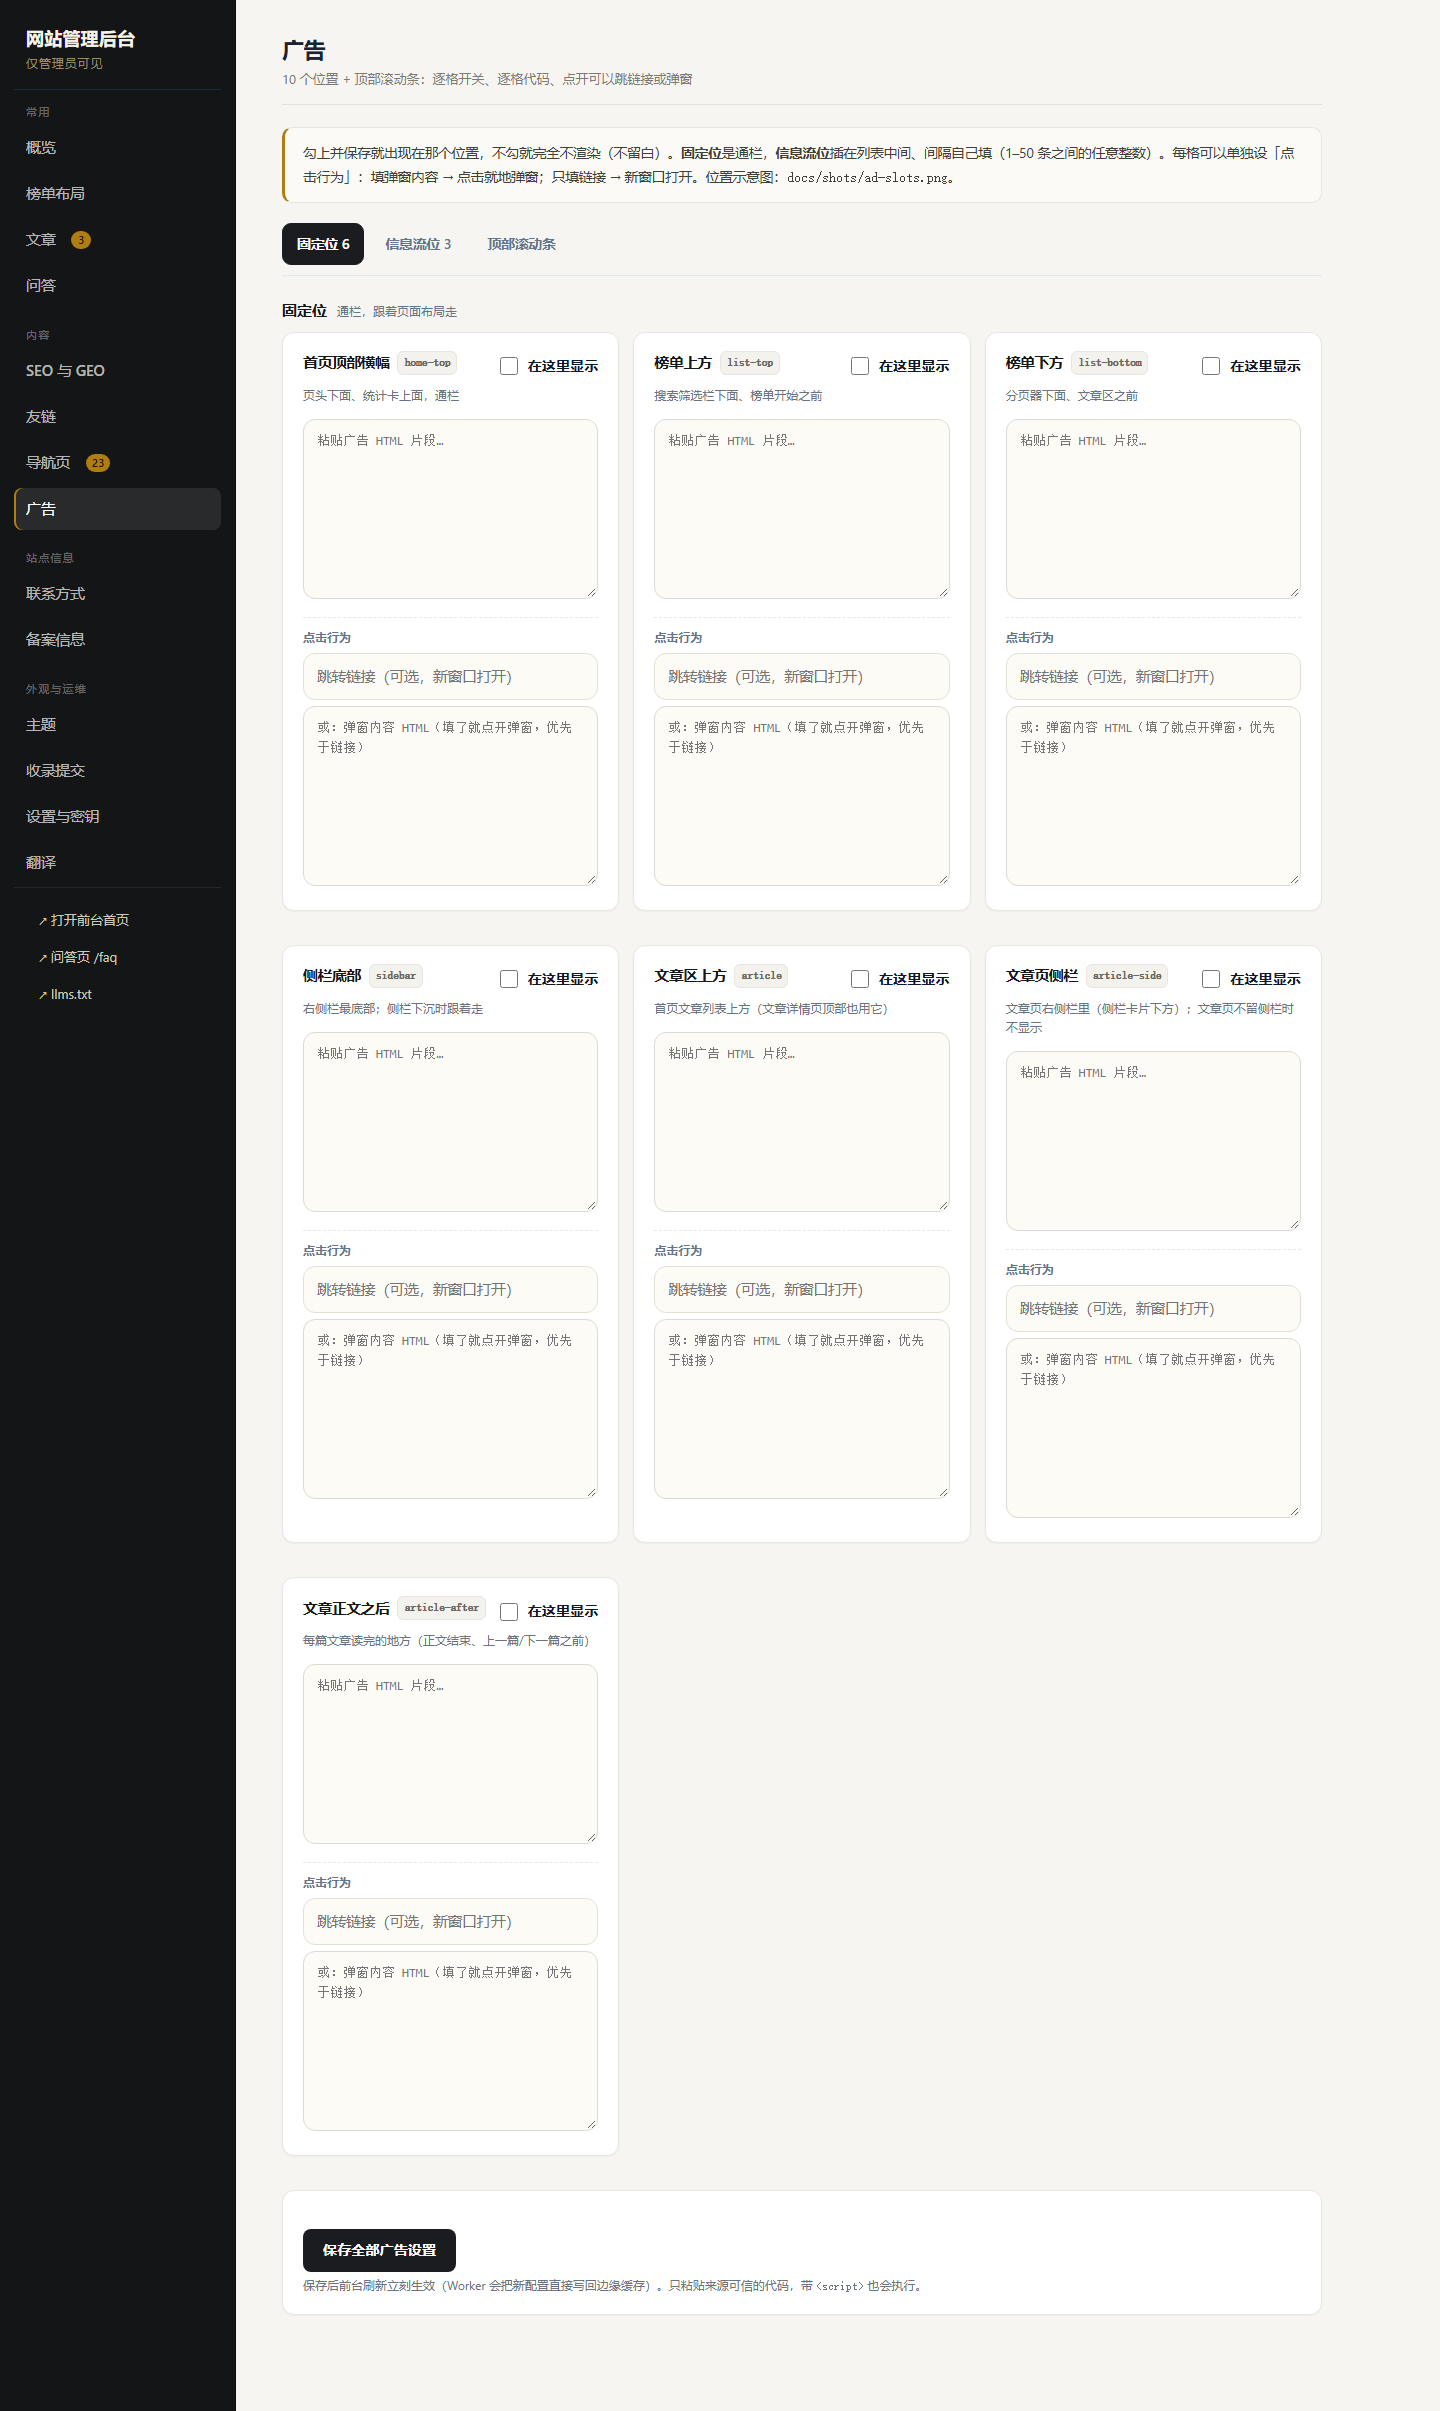
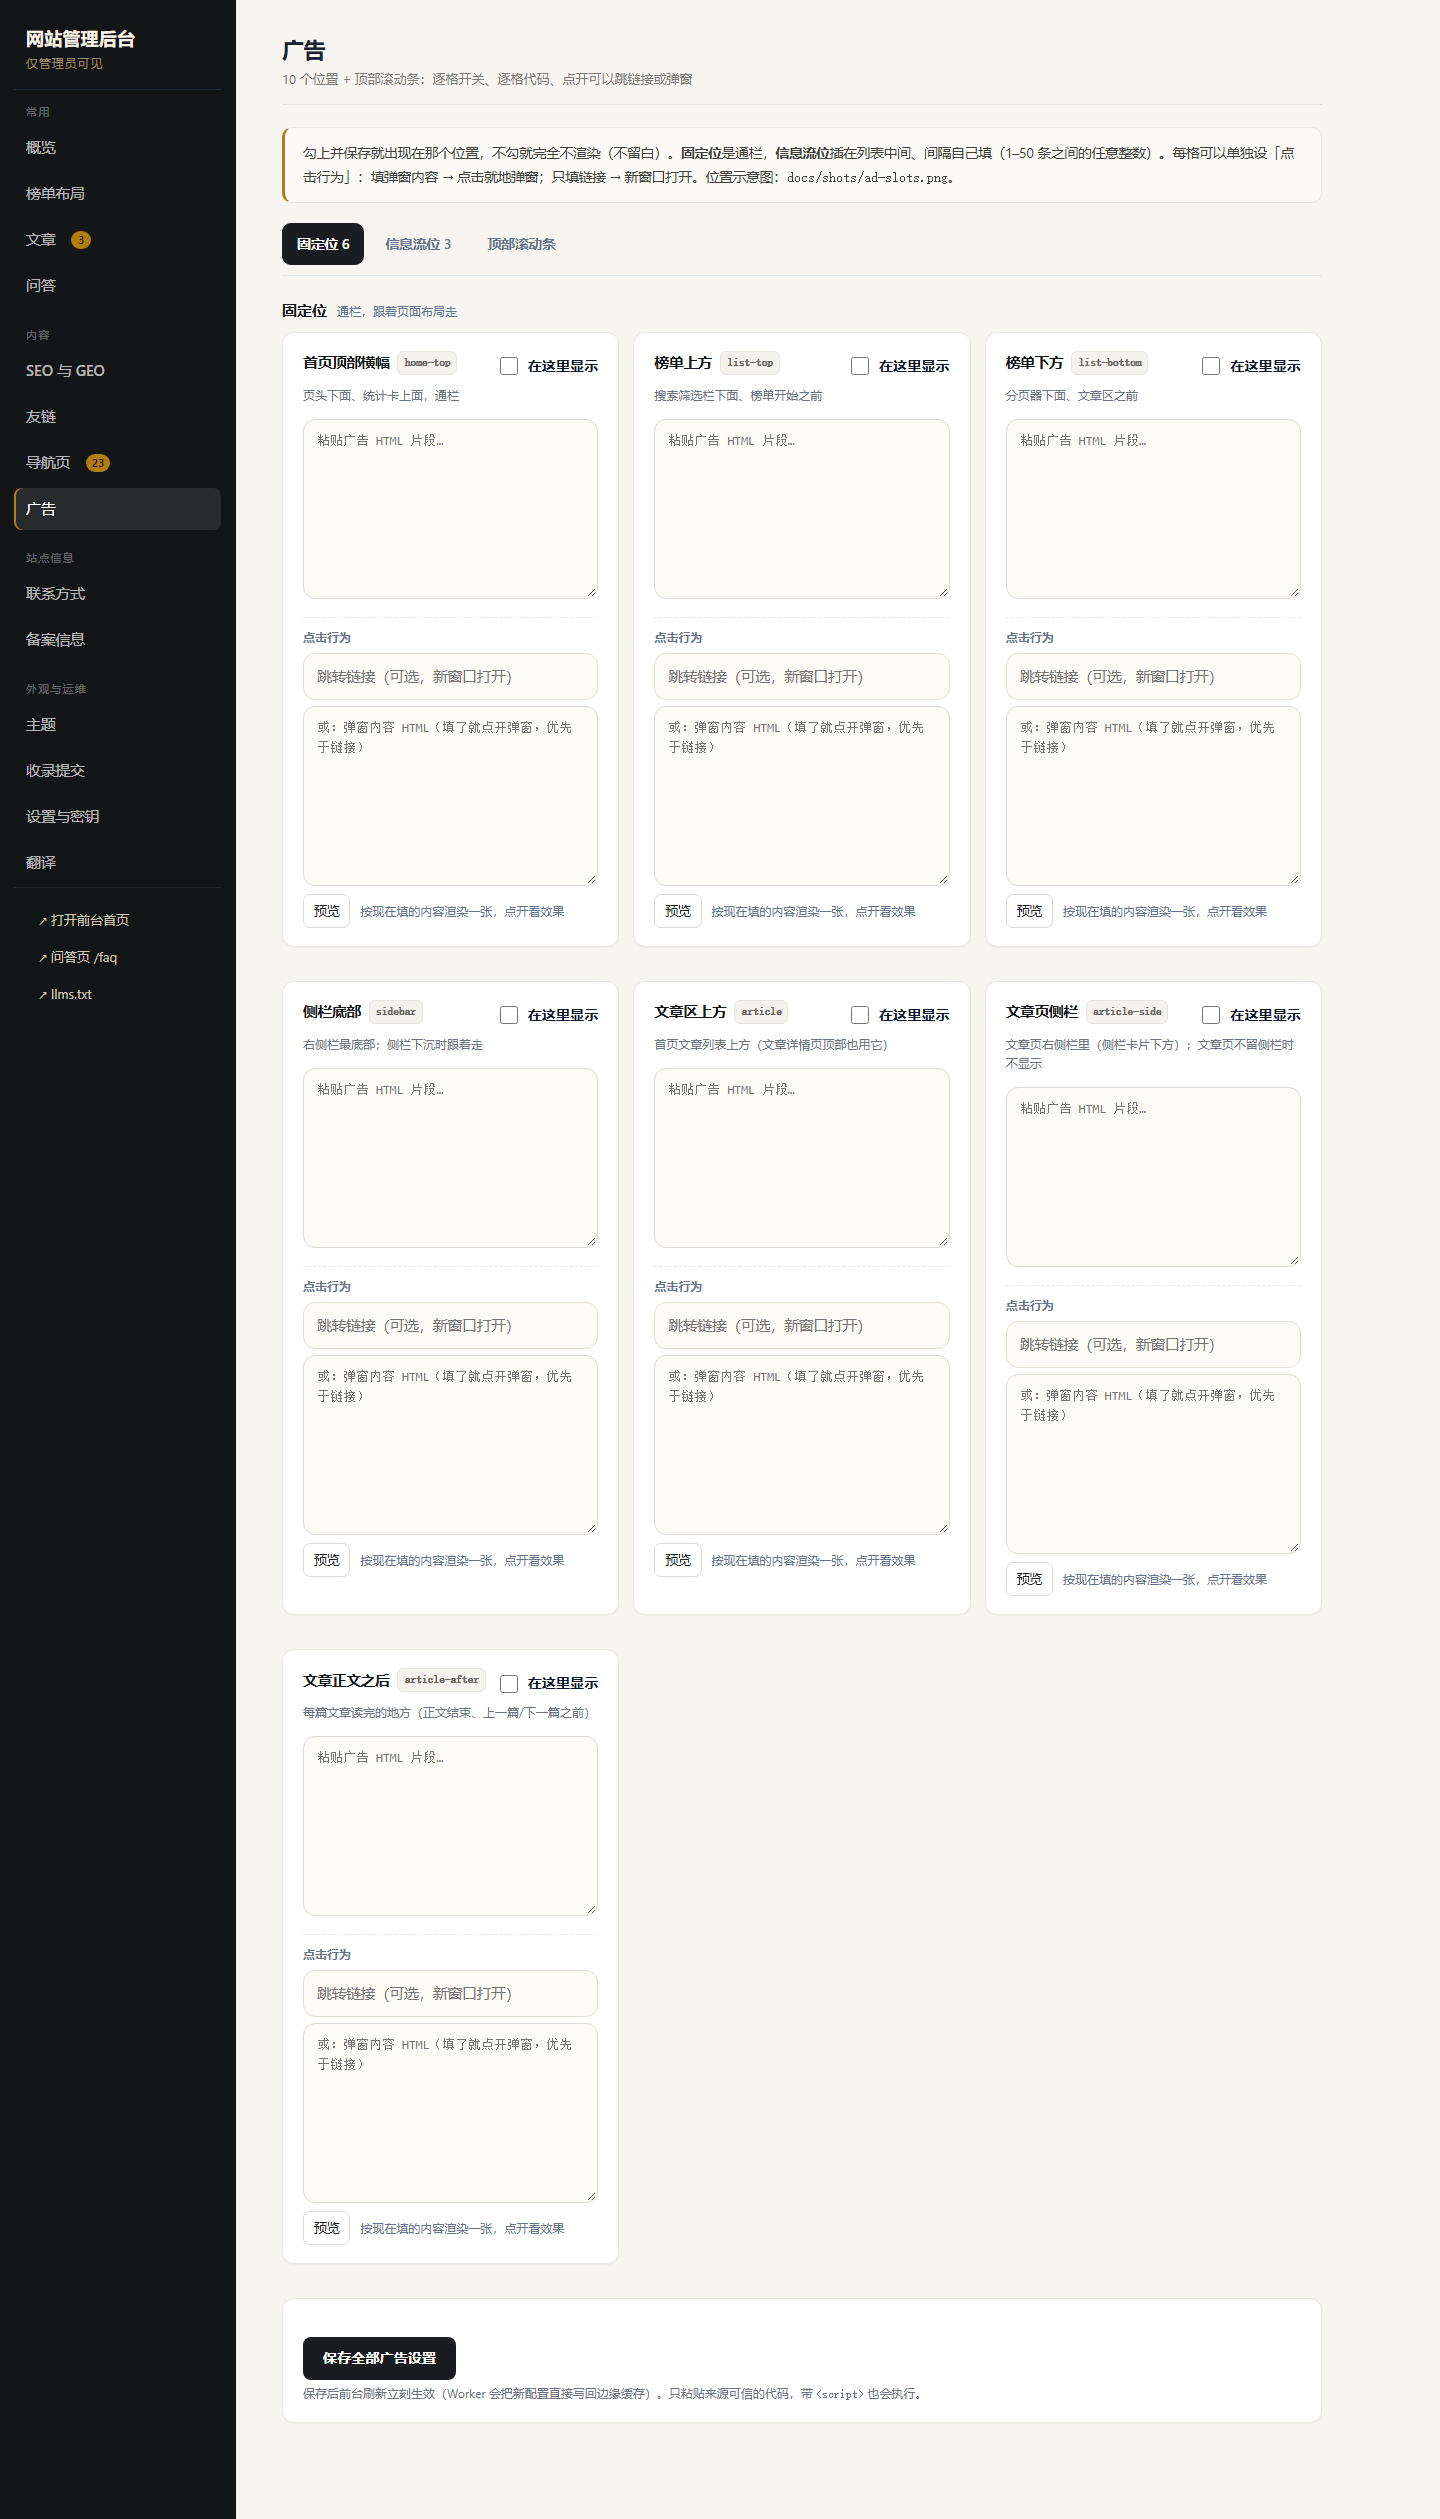
feat: 广告位加预览弹窗（渲染当前填写的 HTML，剥离脚本）；v86

diff --git a/worker.js b/worker.js
@@ -1431,7 +1431,7 @@ async function injectFaqLd(env, html) {
 
 // 静态资源版本：HTML 里的 /js/*.js 都会被加上 ?v=<这里>，于是能给浏览器一年 immutable；
 // 改了前端就把它 +1（不然用户浏览器会抱着一周的旧 bundle，界面上去点了没反应）
-const ASSET_V = 'v85';
+const ASSET_V = 'v86';
 
 function emptyNav() {
   return { updatedAt: '', groups: [] };
@@ -2102,6 +2102,8 @@ function adCardHtml(s) {
     '<div class="ad-click"><span class="ad-click-t">点击行为</span>' +
     '<input type="url" data-ad-slot="' + s.id + '" data-ad-field="link" placeholder="跳转链接（可选，新窗口打开）">' +
     '<textarea class="code" rows="2" maxlength="20000" data-ad-slot="' + s.id + '" data-ad-field="modal" placeholder="或：弹窗内容 HTML（填了就点开弹窗，优先于链接）"></textarea>' +
+    '<div class="ad-acts"><button type="button" class="ghost small" data-adprev="' + s.id + '">预览</button>' +
+    '<span class="ad-acts-t">按现在填的内容渲染一张，点开看效果</span></div>' +
     '</div></div>';
 }
 
@@ -3149,6 +3151,10 @@ th{color:var(--muted);font-weight:600;font-size:13px}
   .serp-d{font-size:13px;line-height:1.6;color:#4b5563}
   .cnow{margin-top:4px;font-size:12px;color:#64748b}
   .cnow.cwarn{color:#b91c1c}
+    .ad-acts{display:flex;align-items:center;gap:10px;margin-top:8px}
+  .ad-acts-t{font-size:12px;color:var(--muted)}
+  .ad-prev-wrap{padding:18px 22px 24px;overflow:auto}
+  .ad-prev-wrap .card{margin:0}
   .tr-out{display:grid;gap:10px;margin-top:14px}
 .tr-box{border:1px solid var(--line);border-radius:10px;padding:12px 14px;font-size:14px;background:#f8fafc}
 .tr-box h4{margin:0 0 6px;font-size:12px;color:var(--muted);font-weight:600}
@@ -3770,7 +3776,11 @@ tr:hover td{background:#fcfbf8}
       <div class="actions"><button type="button" class="ghost" id="navImpCancel">取消</button><button type="button" id="navImpGo">导入</button></div>
     </dialog>
 
-        <section class="pane" id="pane-submit" hidden>
+        <dialog id="adPrevDlg" class="wide">
+      <div class="dlg-head"><b>广告预览</b><div class="dlg-head-actions"><button type="button" class="ghost small" id="adPrevX">关闭</button></div></div>
+      <div class="art-col"><div class="ad-prev-wrap" id="adPrevBody"></div></div>
+    </dialog>
+    <section class="pane" id="pane-submit" hidden>
       <div class="bar">
         <div><h1>收录与平台</h1><p class="sub">把新榜单和文章主动告诉搜索引擎与大模型</p></div>
         <div class="bar-actions"><label class="toggle inline"><input type="checkbox" id="subForce"> 强制再推一次</label><button class="btn ghost" type="button" id="subTest">试推 1 条</button><button class="btn ghost" type="button" id="subRunIN">只推 IndexNow</button><button class="btn ghost" type="button" id="subRunBD">只推百度</button><button class="btn primary" type="button" id="subRun">全部提交</button></div>
@@ -5549,6 +5559,22 @@ tr:hover td{background:#fcfbf8}
     });
   })();
 
+  function openAdPrev(id) {
+    var box = document.querySelector('[data-ad-slot="' + id + '"][data-ad-field="html"]');
+    var dlg = $('adPrevDlg');
+    var body = $('adPrevBody');
+    if (!dlg || !body) return;
+    var html = box ? String(box.value || '').trim() : '';
+    if (!html) { toast('这段广告位还没填内容', false); return; }
+    body.innerHTML = html.replace(/<script/gi, '&lt;script');
+    if (typeof dlg.showModal === 'function') dlg.showModal(); else dlg.setAttribute('open', '');
+  }
+  document.addEventListener('click', function (e) {
+    var b = e.target.closest ? e.target.closest('[data-adprev]') : null;
+    if (b) { e.preventDefault(); openAdPrev(b.getAttribute('data-adprev')); }
+  });
+  var adPrevX = $('adPrevX');
+  if (adPrevX) adPrevX.addEventListener('click', function () { var d = $('adPrevDlg'); if (d) d.close(); });
   // ---- 启动 ----
   var saved = sessionStorage.getItem(PW_KEY);
   if (saved) {

diff --git a/sw.js b/sw.js
@@ -1,5 +1,5 @@
 /* Service Worker：缓存页面外壳（HTML/JS/图标），让离线也能打开；GitHub API 不缓存，由页面自己的 localStorage 管理 */
-const CACHE = 'ghrank-shell-v85';
+const CACHE = 'ghrank-shell-v86';
 const SHELL = ['./', 'index.html', 'js/bundle.js', 'js/md.js', 'manifest.json', 'icon.svg'];
 // 只预缓存 meta（约 2KB）。榜单数据按 range 分文件、由页面按需加载，不再在安装时白下几�?KB
 const DATA = 'data/repos-meta.js';

diff --git a/docs/优化建议.md b/docs/优化建议.md
@@ -885,3 +885,21 @@ node scripts/check-worker.mjs      # 本地模拟 Workers 运行时，30+ 项断
 ### 坑
 - worker.js 的 CSS 是**顶格**写的（没有缩进），锚点带两个空格会命中 0 次；`.choice-t{...}` 这类短规则在多套主题里重复出现，必须挑只出现一次的写法。
 - 补丁脚本对每个 op 断言「恰好命中 1 次」，命中 0 就整体不写文件——这个习惯救过好几次，别图快跳过。
+
+## 56. 第 31 轮：广告位「预览」按钮
+
+### 做了什么
+- 后台「广告」页每个广告位卡片底部加「预览」按钮 + 一行说明（按现在填的内容渲染一张，点开看效果）。
+- 点开是 `#adPrevDlg` 弹窗（复用后台 `dialog.wide` 的头部/关闭风格），把该位 `textarea` 里的 HTML 原样渲染到 `.ad-prev-wrap` 里，宽度和后台内容区一致，能直接看出这条广告在页面里大概多高、字多大、按钮位置对不对。
+- 安全：渲染前把 `<script` 全部转成 `&lt;script`，避免粘进来的第三方代码在后台执行；广告本来就允许任意 HTML，所以这块只用「不执行脚本」这一条底线。
+- 没填内容时点预览 → `toast('这段广告位还没填内容')`，不弹空窗。
+
+### 验证
+- CDP 实测：脚本填入示例 HTML → 点预览 → `dialog open`、`#adPrevBody` 内容长度 284；截图 `docs/shots/admin-ad-preview.png`（1200×900，弹窗内红虚线示例卡完整渲染）。
+- `node --check worker.js`、`check-admin-script`、`check-admin-refs`（新增 `adPrevDlg/adPrevBody/adPrevX` 全部对得上）、`check-admin-panes`（12 面板 + 390px）、`check-pane-wiring`、`check-worker`（74 回源 / 100 API）、`check-frontend-closure` 全绿。
+- 截图：`docs/shots/admin-ad.png`（1440×2519，固定位 6 + 信息流位 3 + 每卡预览按钮）、`admin-ad-preview.png`。
+- `ASSET_V`、`CACHE` 升到 v86。
+
+### 坑
+- 改 `adCardHtml` 时把函数结尾的 `}` 一起替换掉了 → `node --check worker.js` 报 `SyntaxError: Unexpected end of input`。**补丁里凡是 `find` 带收尾括号的，替换文本必须把括号补回去**；这次靠 `node --check` 立刻发现，没有把坏文件推上去。
+- 弹窗里的内容用 `innerHTML` 注入，别直接 `document.write`；关闭走 `dialog.close()`，ESC 也能关（原生 `<dialog>` 行为）。
